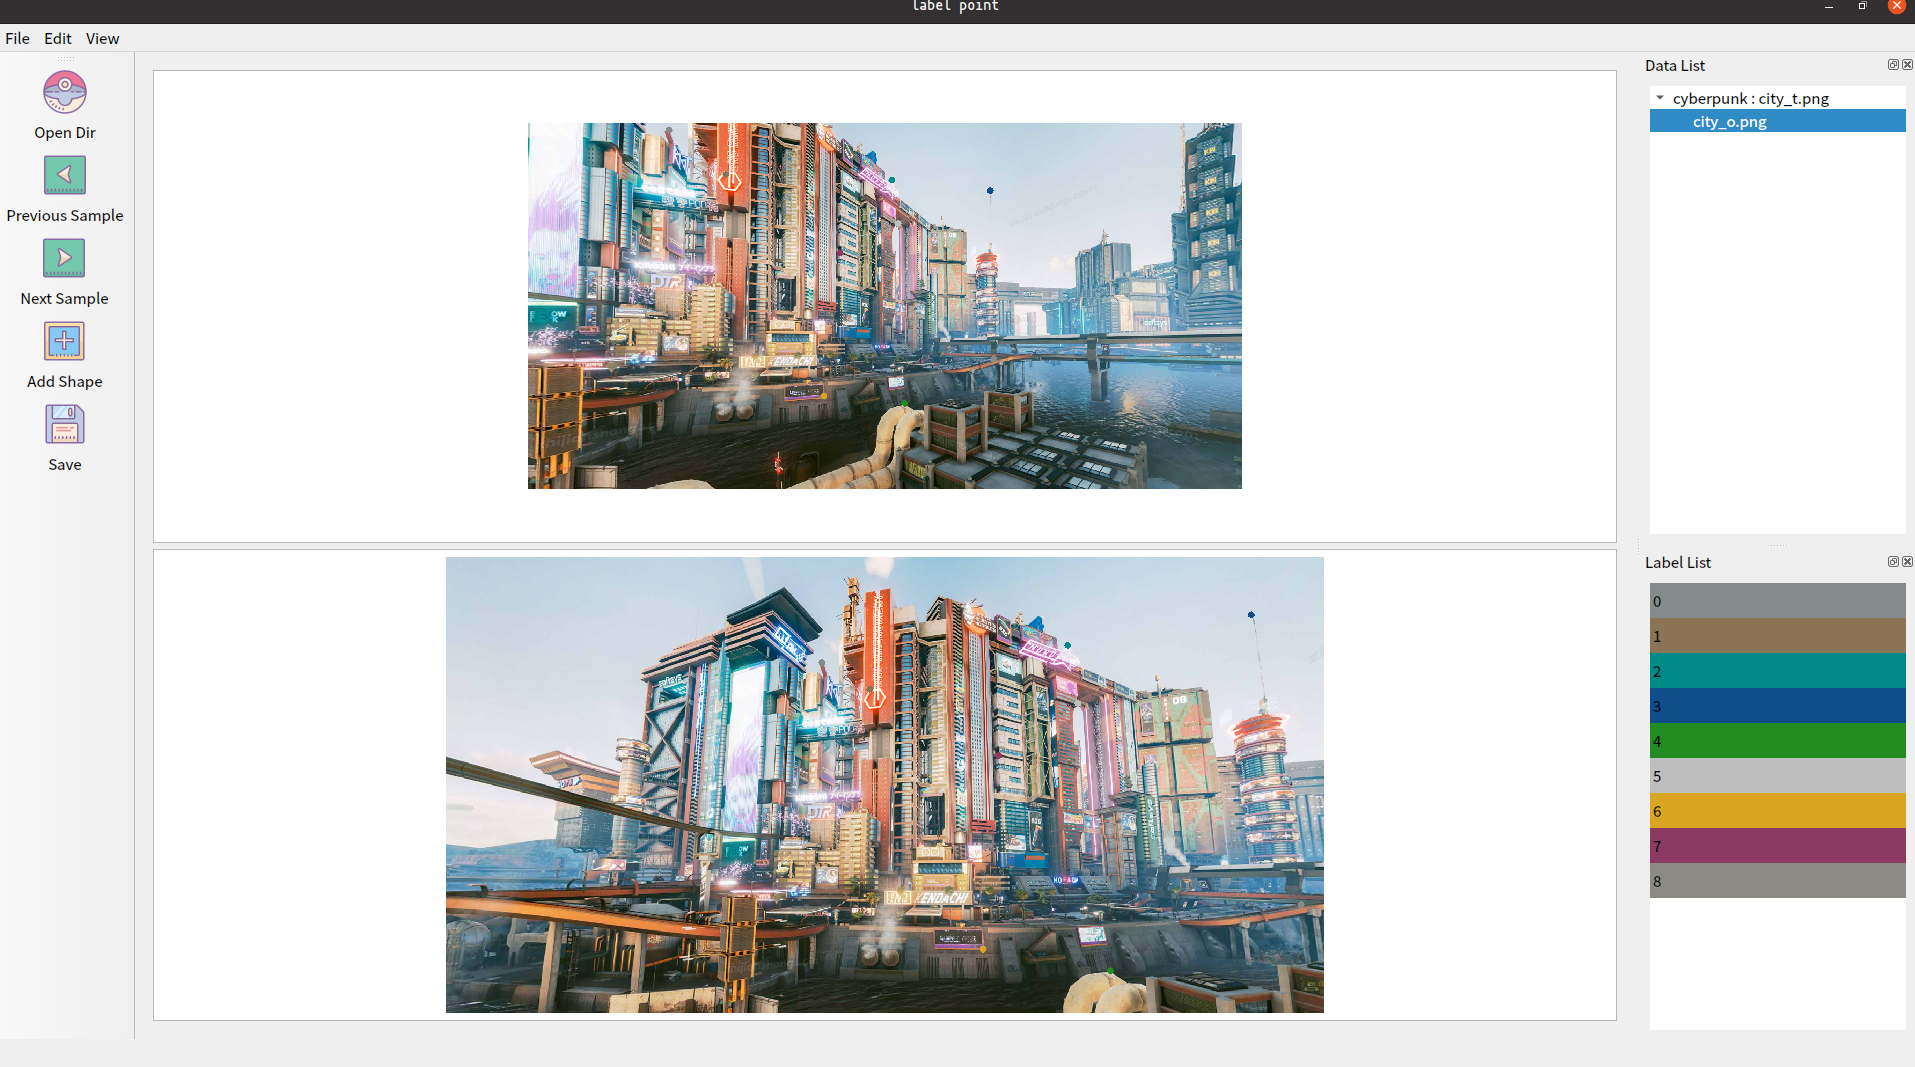
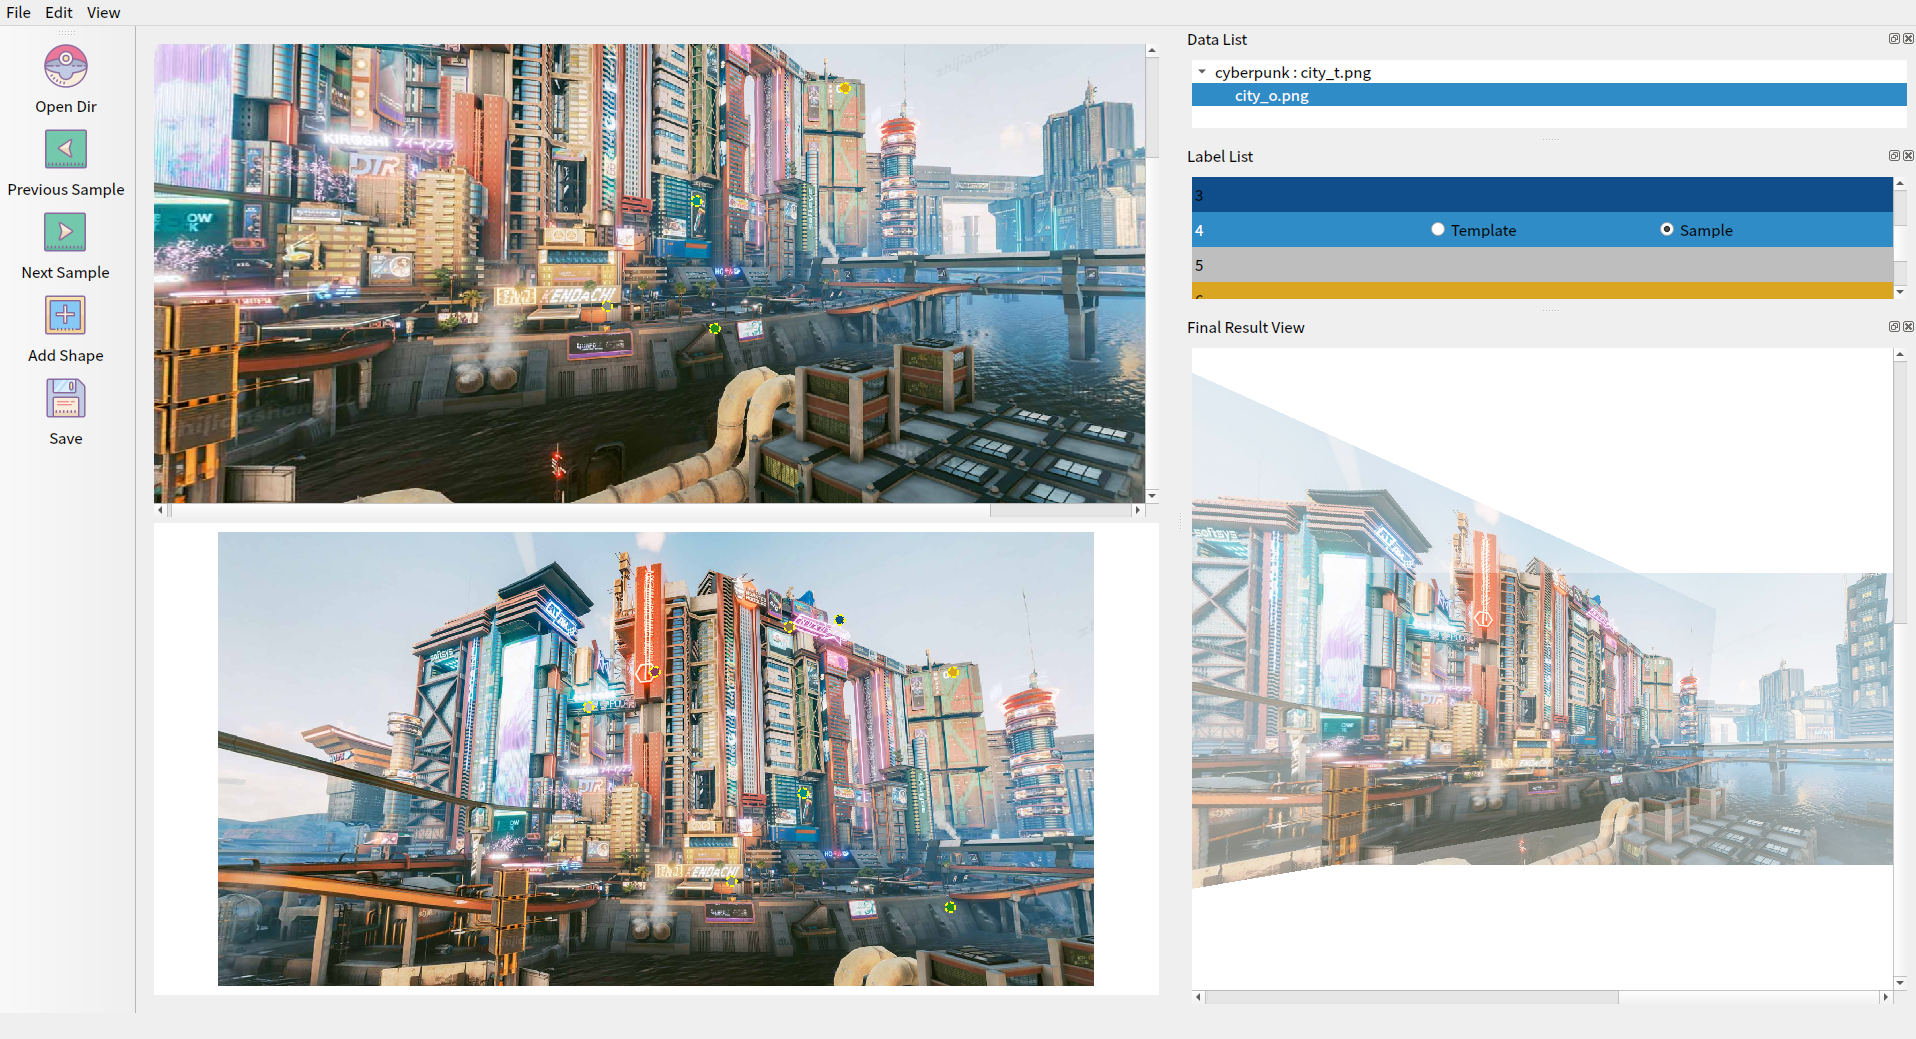
现在 listwidget 可以显示ransac失败的点了

diff --git a/app.py b/app.py
@@ -3,7 +3,7 @@
 @Author: captainfffsama
 @Date: 2022-12-14 17:41:47
 @LastEditors: captainfffsama tuanzhangsama@outlook.com
-@LastEditTime: 2023-01-11 15:38:29
+@LastEditTime: 2023-01-11 17:49:27
 @FilePath: /label_homography/app.py
 @Description:
 '''
@@ -177,11 +177,13 @@ class MyMainWindow(QMainWindow, Ui_MainWindow):
             t_scene_rect = self.tem_draw_area.sceneRect()
             s_scene_rect = self.sample_draw_area.sceneRect()
             final_result = {}
+            listItemList=[]
             for k, v in self.shapes_info.items():
                 tps = v['TemplateShape'].scenePos() - t_scene_rect.topLeft()
                 sps = v['SampleShape'].scenePos() - s_scene_rect.topLeft()
                 template_ps.append((tps.x(), tps.y()))
                 sample_ps.append((sps.x(), sps.y()))
+                listItemList.append(v['ListItem'])
 
             template_info = {}
             template_info['Path'] = self.current_t_path
@@ -202,10 +204,14 @@ class MyMainWindow(QMainWindow, Ui_MainWindow):
 
             #count H
             H,mask = countH(sample_ps, template_ps)
-            print(mask)
             if H is not None:
                 final_result["Sample2Template Matrix"] = H.tolist()
                 self.checkDockWidgetView.showFinalImage(self.current_t_qimage,self.current_s_qimage,H.T)
+                for i,v in enumerate(mask[:,0]):
+                    if not v:
+                        listItemList[i].setData(Qt.DisplayRole,listItemList[i]._label+":Failed")
+                    else:
+                        listItemList[i].setData(Qt.DisplayRole,listItemList[i]._label)
             else:
                 title = self._tr(self.__class__.__name__, "Error")
                 text = self._tr(

diff --git a/libs/widget/label_list_widget.py b/libs/widget/label_list_widget.py
@@ -3,7 +3,7 @@
 @Author: captainfffsama
 @Date: 2023-01-09 17:01:01
 @LastEditors: captainfffsama tuanzhangsama@outlook.com
-@LastEditTime: 2023-01-11 15:29:18
+@LastEditTime: 2023-01-11 17:46:15
 @FilePath: /label_homography/libs/widget/label_list_widget.py
 @Description:
 '''
@@ -42,14 +42,15 @@ class LabelListWidget(QListWidget):
             self.currentItemTypeSignal.emit(self.currentItem().hash, item_type)
 
     def setItemSelectedFromGraphicsItemSlot(self, gitem):
-        for item in self.findItems(str(gitem._label), Qt.MatchExactly):
+        for i in range(self.count()):
+            item=self.item(i)
             if item.hash == gitem.hash:
                 self.setCurrentItem(item)
-            label_item_widget = self.itemWidget(item)
-        if label_item_widget:
-            if gitem.belongScene == "TemplateCanvasScene":
-                label_item_widget.templateBtn.setChecked(True)
-            elif gitem.belongScene == "SampleCanvasScene":
-                label_item_widget.sampleBtn.setChecked(True)
-            else:
-                pass
+                label_item_widget = self.itemWidget(item)
+                if gitem.belongScene == "TemplateCanvasScene":
+                    label_item_widget.templateBtn.setChecked(True)
+                elif gitem.belongScene == "SampleCanvasScene":
+                    label_item_widget.sampleBtn.setChecked(True)
+                else:
+                    pass
+                break

diff --git a/libs/widget/label_list_item.py b/libs/widget/label_list_item.py
@@ -3,7 +3,7 @@
 @Author: captainfffsama
 @Date: 2023-01-09 16:23:28
 @LastEditors: captainfffsama tuanzhangsama@outlook.com
-@LastEditTime: 2023-01-11 10:45:11
+@LastEditTime: 2023-01-11 17:40:20
 @FilePath: /label_homography/libs/widget/label_list_item.py
 @Description:
 '''
@@ -48,6 +48,7 @@ class LabelListItem(QListWidgetItem):
         self.setFlags(self.flags() | Qt.ItemIsUserCheckable)
         self.setBackground(get_color(int(text)))
         self.setSizeHint(QSize(0, 35))
+        # self.setData(Qt.DisplayRole,self._label+":"+self._hash)
 
     @property
     def hash(self):
